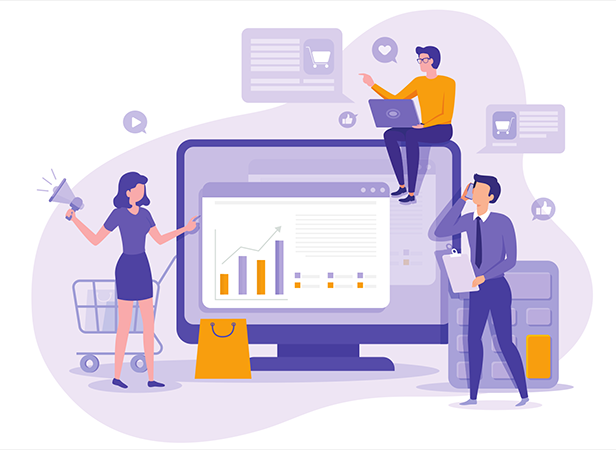
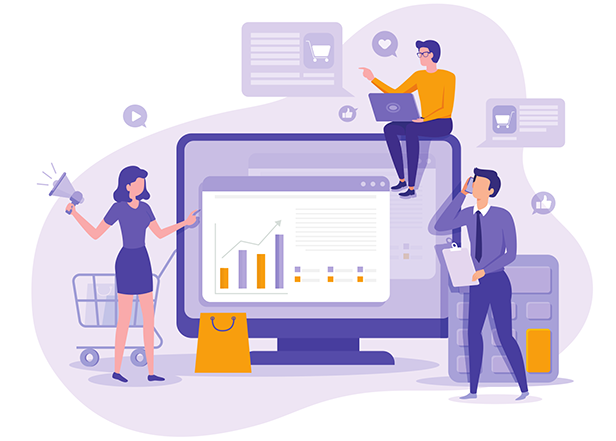
Modified sub

diff --git a/index.html b/index.html
@@ -13,7 +13,7 @@
             <div class="hero-text flex">
                 <h1 id="hero-section-title">Mᴀsᴛᴇʀ Pʀᴏɢʀᴀᴍᴍɪɴɢ<br>ᴡɪᴛʜ Hᴀɴᴅs-Oɴ Pʀᴀᴄᴛɪᴄᴇ</h1>
                 <p>Lᴇᴠᴇʟ ᴜᴘ ʏᴏᴜʀ ᴄᴏᴅɪɴɢ sᴋɪʟʟs ᴛʜʀᴏᴜɢʜ ɪɴᴛᴇʀᴀᴄᴛɪᴠᴇ Jᴀᴠᴀ ᴇxᴇʀᴄɪsᴇs, ᴘʀᴏᴊᴇᴄᴛs, ᴀɴᴅ ᴄʜᴀʟʟᴇɴɢᴇs.</p>
-                <img src="./images/hero1.png" alt="Hero-pic" class="hero-pic">
+                <img src="./images/hero.png" alt="Hero-pic" class="hero-pic">
                 <a href="#" class="singup-btn" id="singup-btn">JOIN WITH CODINGBAT</a>
                 <p class="guest-msg">WANT TO CONTINUE AS GUEST! <a href="./home.html" class="guest">CLCK HERE</a></p>
             </div>
@@ -26,6 +26,9 @@
               </svg>
             <div class="logfrom">
                 <form id="login-from1">
+                  <div class="logo-from">
+                    <img src="./images/logo.png" alt="logo" class="logo-from-pic">
+                  </div>
                     <div class="mb-3">
                       <label for="exampleInputEmail1" class="form-label">Email address / Number</label>
                       <input type="email" class="form-control" id="exampleInputEmail" aria-describedby="emailHelp">
@@ -54,6 +57,9 @@
               </svg>
             <div class="logfrom">
                 <form id="login-from">
+                  <div class="logo-from">
+                    <img src="./images/logo.png" alt="logo" class="logo-from-pic">
+                  </div>
                     <div class="mb-3">
                       <label for="exampleInputEmail1" class="form-label">Email address / Number</label>
                       <input type="email" class="form-control" id="exampleInputEmail1" aria-describedby="emailHelp">

diff --git a/Styles.css b/Styles.css
@@ -8,6 +8,7 @@
  ::-webkit-scrollbar {
    display: none;
  }
+
 *{
     margin: 0;
     padding: 0;
@@ -27,6 +28,10 @@ body{
     font-weight: 400;
     line-height: 1.5;
     color: #212529;
+    background-image: url(./images/bg.jpg);
+    background-position:center;
+    background-size: 100%;
+    backdrop-filter: blur(1px);
 }
 a{
     text-decoration: none;
@@ -75,10 +80,9 @@ a{
     color: rgba(0, 0, 255, 0.644) !important;
 }
 .hero-pic{
-    margin: 10px 0px 0px 0px;
+    /* margin: 10px 0px 0px 0px; */
     padding: 5px 0px;
-    width: 100%;
-    mix-blend-mode:multiply;
+    width: 120%;
 }
 .course-availability p {
     padding: 0px 26px;
@@ -125,7 +129,8 @@ a{
     transition: 1s;
 }
 .logfrom{
-    padding: 30px;
+    padding: 25px;
+    width: 90%;
     background-color: white;
     box-shadow: rgba(255, 255, 255, 0.1) 0px 1px 0px, rgba(17, 17, 26, 0.1) 0px 8px 24px, rgba(17, 17, 26, 0.1) 0px 16px 48px;
     border-radius: 2px;
@@ -146,7 +151,7 @@ a{
 }
 .guest-msg{
     text-align: center;
-    margin-top: 15px;
+    margin-top: 5px;
 }
 #close , #close1{
     position: absolute;
@@ -156,4 +161,12 @@ a{
 }
 .logo-pic{
     mix-blend-mode: color-burn;
+}
+.logo-from{
+    width: 100%;
+    text-align: center;
+    padding: 0px 0px 20px 0px;
+}
+.logo-from-pic{
+    width: 80%;
 }

diff --git a/home.html b/home.html
@@ -11,7 +11,7 @@
     <section class="section1" id="section1">
         <nav class="navbar navbar-dark bg-dark fixed-top">
             <div class="container-fluid">
-                <img src="./images/img/logo.png" alt="Logo.png"  class="logo-pic">
+                <img src="./images/logo.png" alt="Logo.png"  class="logo-pic">
               <div class="con">
                   <button class="btn" id="btn1">
                     <svg xmlns="http://www.w3.org/2000/svg" width="20" height="20" fill="currentColor" class="bi bi-bookmark" viewBox="0 0 16 16">
